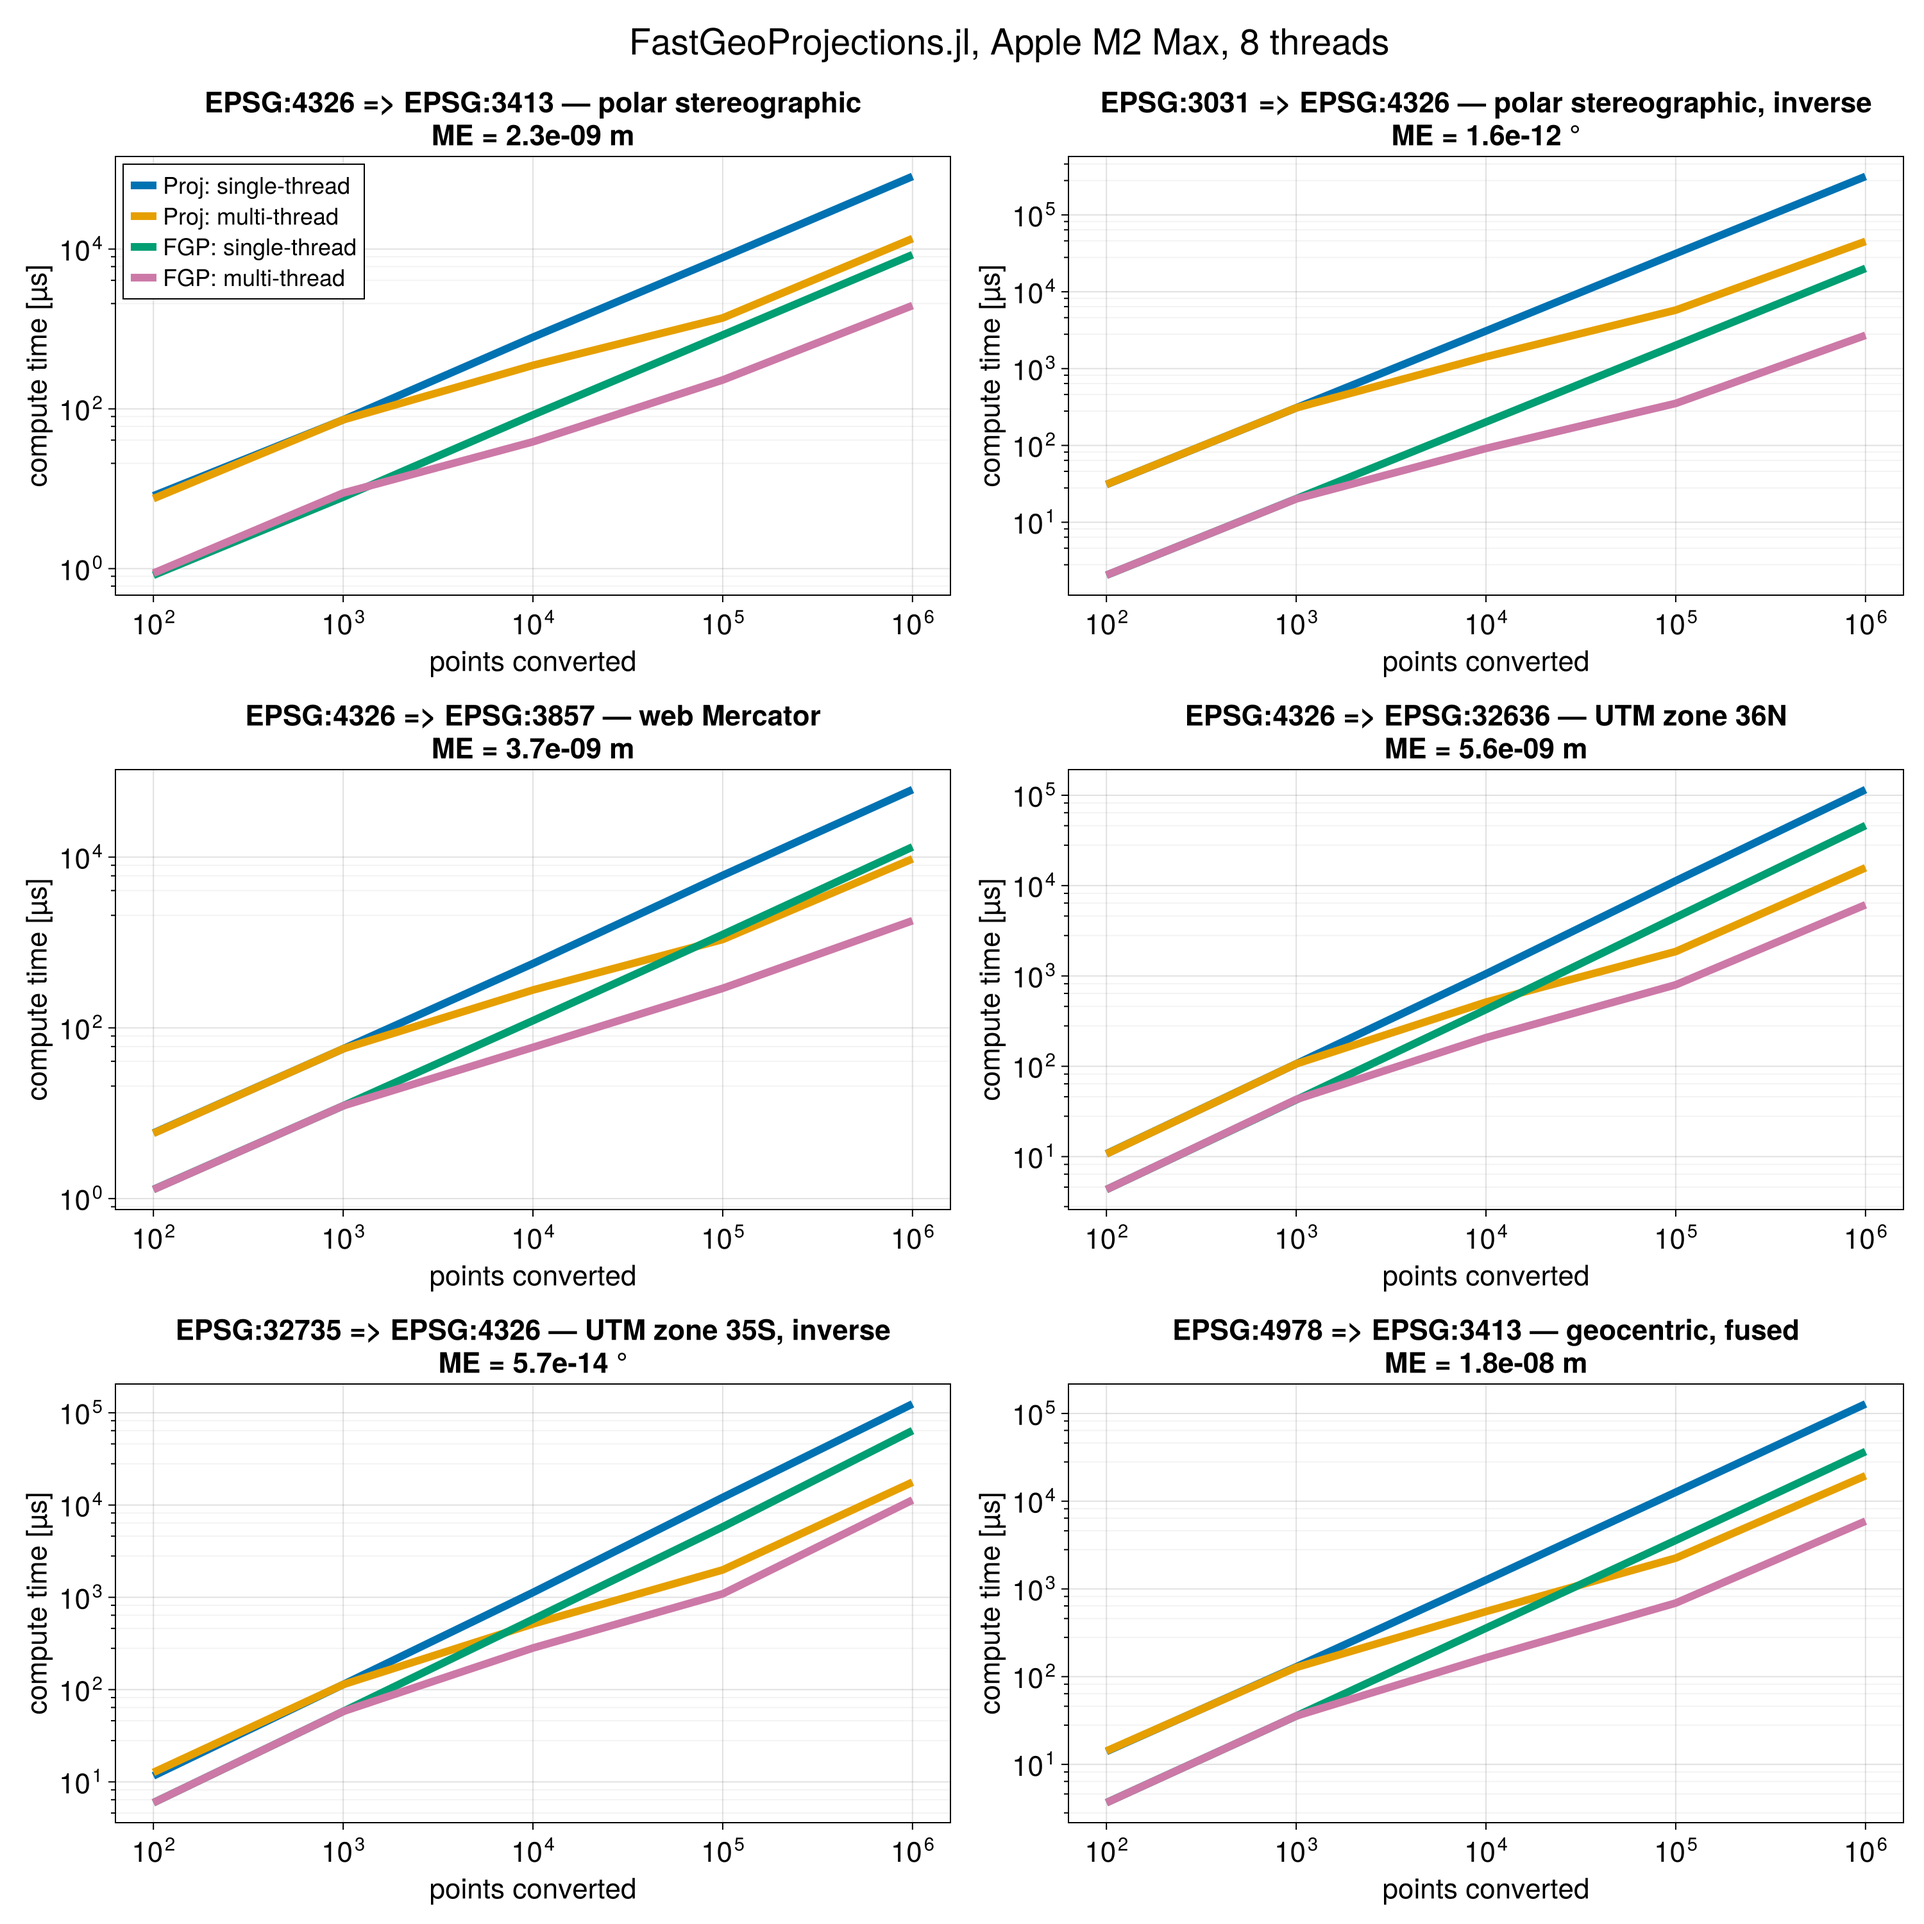
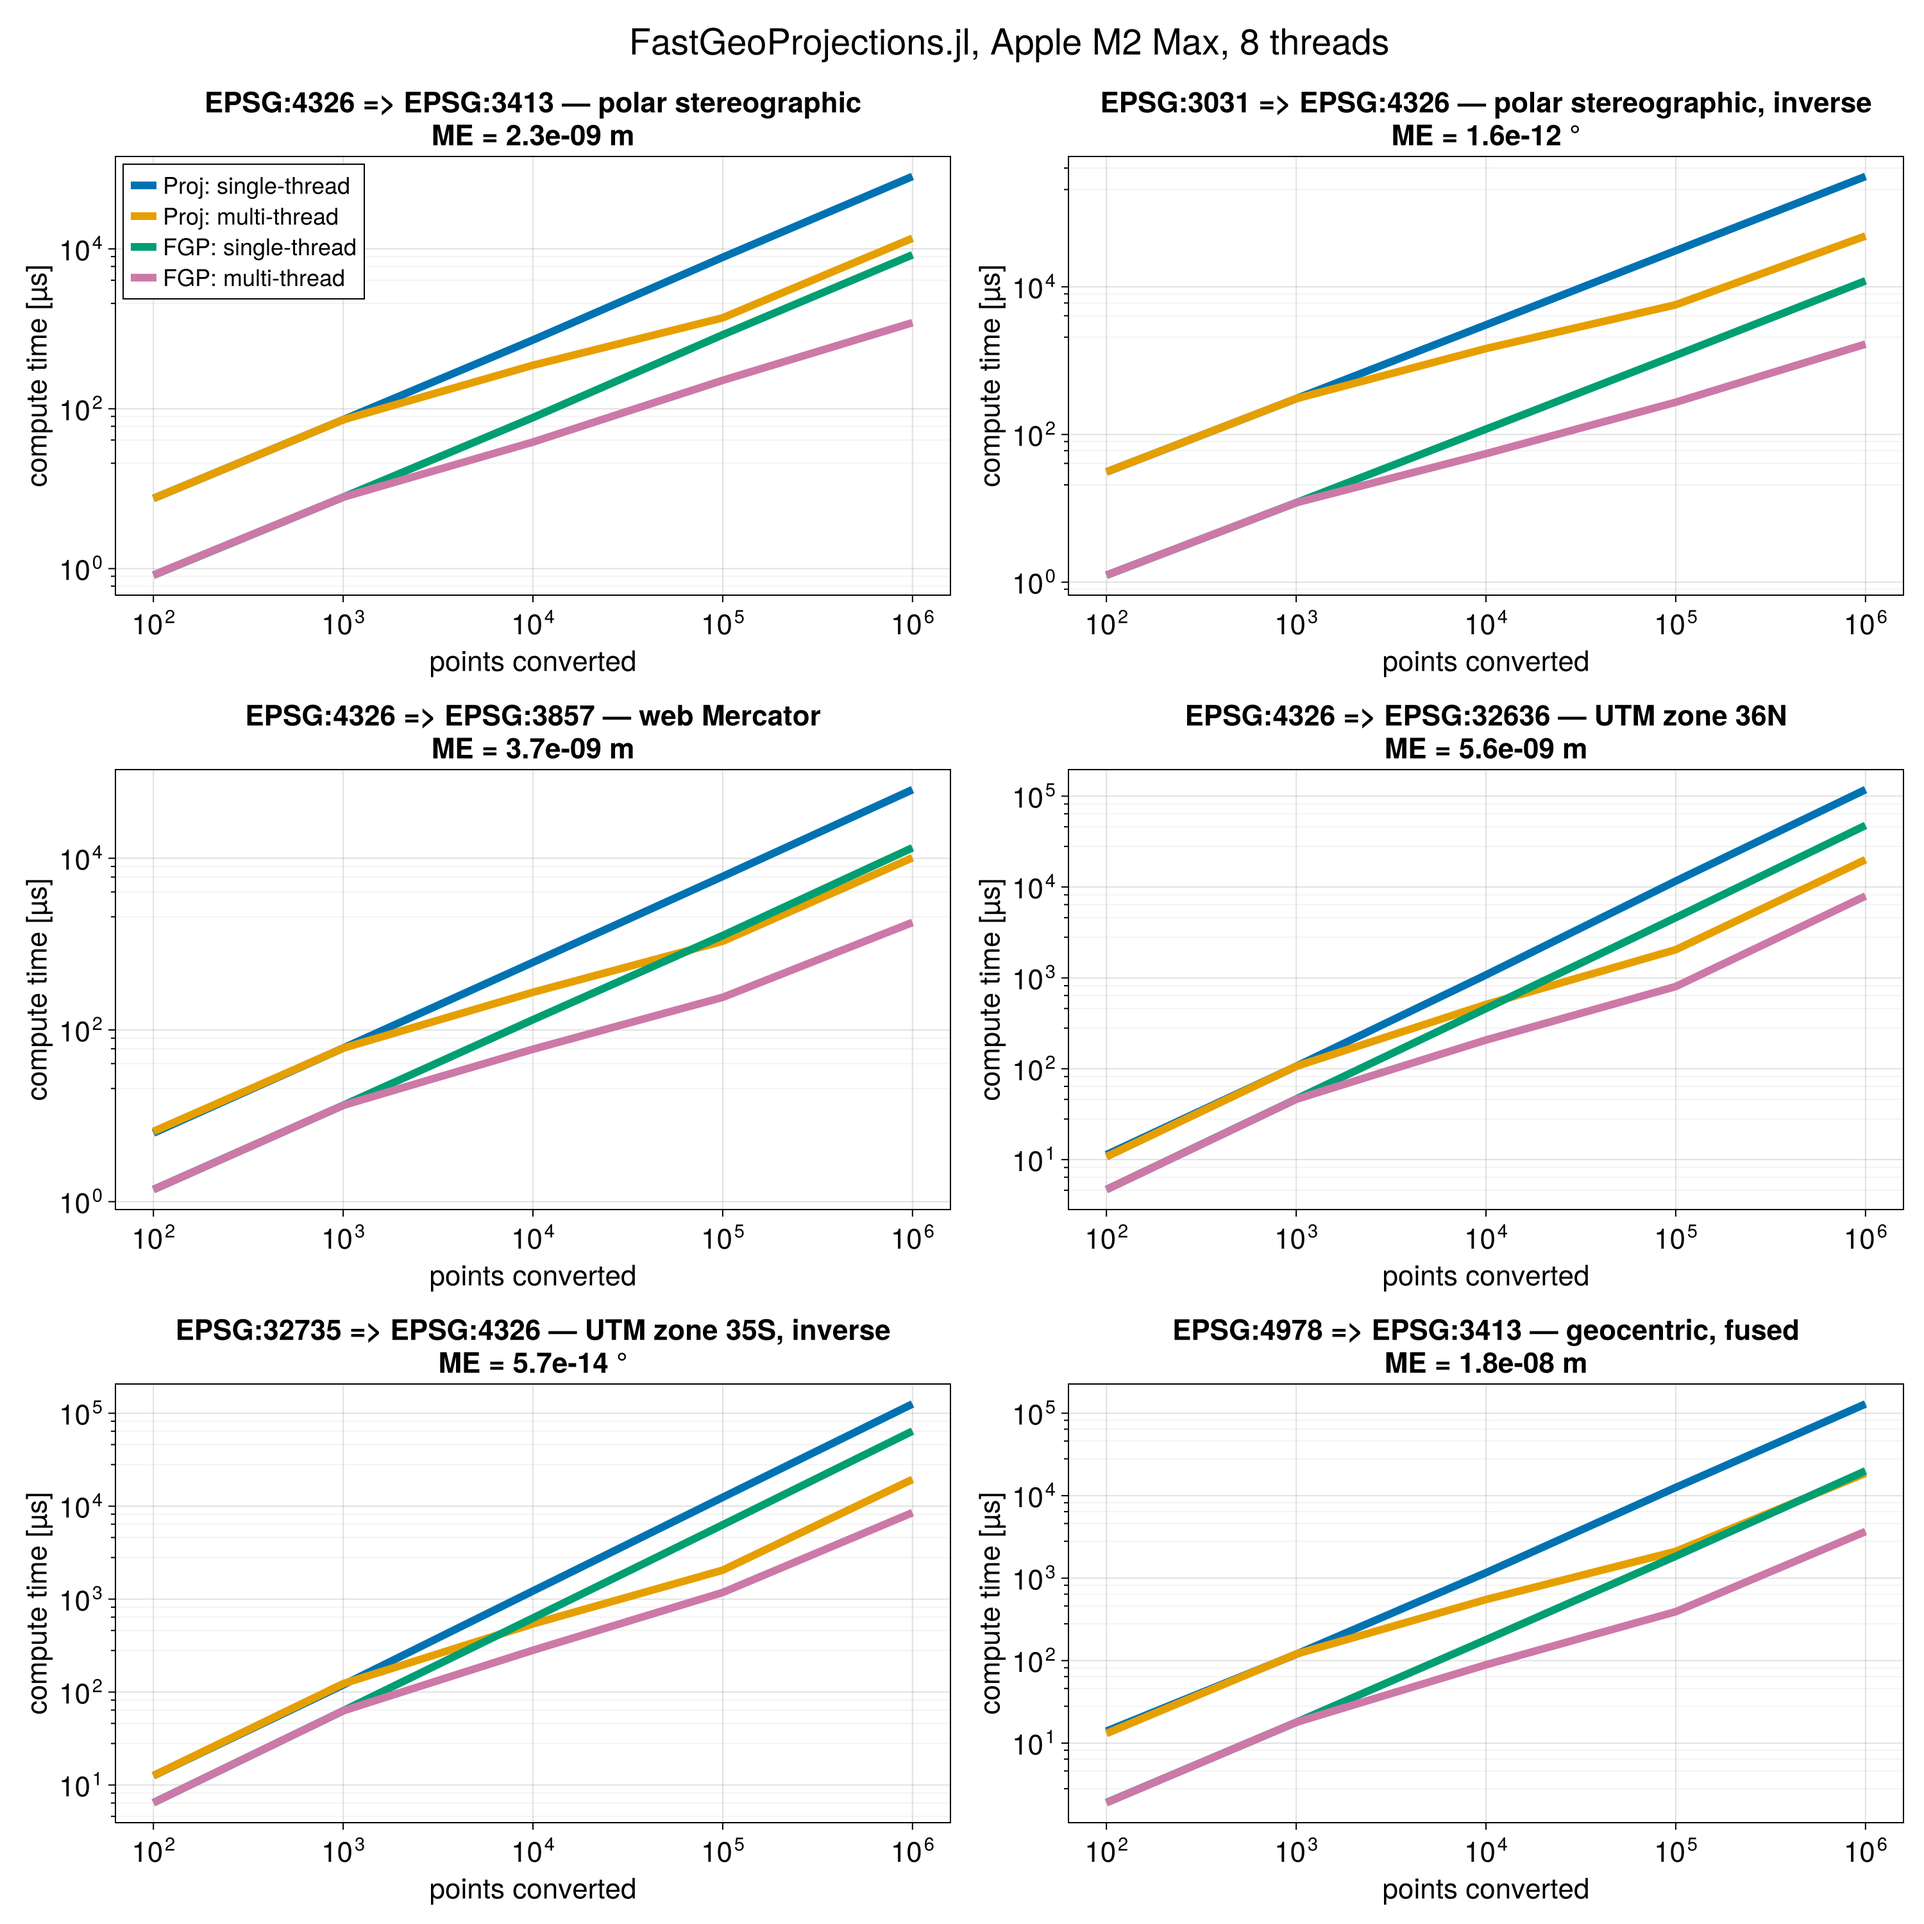
Halve the polar stereographic and geocentric costs (#35)
Sum the conformal->geodetic latitude series by Clenshaw recurrence rather
than as five separate sines: `Math.sin2_series` needs one `sincos` for the
whole series, and the polar stereographic inverse drops from 23 to 13
ns/point. The two forms agree to 1.1e-11 m, three orders inside the 2.4e-8 m
the truncated series itself costs.

Generalize the interleaved lane loop over its coordinate row count, so an
operator that transforms a height reaches it instead of falling to the scalar
path. The geocentric inverse drops from 43 to 22 ns/point, the fused
geocentric pipeline from 36 to 18, and the forward from 12 to 7.4.

`Direction`'s type parameter now follows its components rather than the
operator's precision, which is what lets one hold a `Vec` of lanes; built as
`Direction{T}` it threw on the path this opens.

Add `ncoords`, so how many coordinates an operator takes at once is a trait
it answers rather than something inferred from `!preservesz`. That inference
held only because 3 is the sole non-2 arity today.

diff --git a/CLAUDE.md b/CLAUDE.md
@@ -43,10 +43,13 @@ projection parameters, mapping one point to one point. Threading and vectorizati
 one per calling convention.
 
 - `transformations.jl` — `abstract type GeoTransformation`, the traits every operator answers
-  (`islanesafe`, `preservesz`, `adapt_eltype`), and `ComposedGeoTransformation`, a flat tuple that
-  inlines into one pass.
+  (`islanesafe`, `preservesz`, `ncoords`, `adapt_eltype`), and `ComposedGeoTransformation`, a flat
+  tuple that inlines into one pass.
 - `apply.jl` — `transform`/`transform!` over collections. Picks a SIMD lane loop or a scalar loop
-  per chunk, threads over chunks, and decides how a third coordinate is handled.
+  per chunk, threads over chunks, and decides how a third coordinate is handled. `_ncoords_val`
+  answers how many coordinates travel together — `ncoords(t)` capped by what the source and
+  destination have room for — as a `Val`, which selects both the lane loop's row count and the
+  scalar loop, so neither is decided per point.
 - `epsg.jl` — the EPSG registry. `pipeline()` composes `project_from_4326` with `project_to_4326`,
   since every projection is expressed relative to EPSG:4326 in (lon, lat) order.
 - `coord.jl` — `Transformation`, the public entry point, wrapping an operator plus the EPSG pair
@@ -73,17 +76,21 @@ axis orders, so an unclassified code fails rather than silently returning x and 
 - **`always_xy` differs by layer.** `false` on `Transformation` (authority order, so EPSG:4326 is
   lat, lon); the operators underneath are *always* xy. Axis order is handled by composing `SwapXY`
   onto the geographic end of a pipeline, not by a per-point branch.
-- **`islanesafe` and `preservesz` are independent traits.** Lane-safe means evaluable on `Vec`
-  lanes; `preservesz` means a third coordinate passes through untouched. A map projection is both;
-  the geocentric conversions are lane-safe but transform the height. Code that conflates them takes
-  the wrong path silently.
+- **`islanesafe`, `preservesz` and `ncoords` are independent traits.** Lane-safe means evaluable on
+  `Vec` lanes; `preservesz` means a third coordinate passes through untouched; `ncoords` is how many
+  coordinates the operator takes at once. A map projection is lane-safe, preserving, and 2; the
+  geocentric conversions are lane-safe, non-preserving, and 3. Code that conflates them takes the
+  wrong path silently.
 - **A height is transformed, not carried, where the transformation changes one.** For a datum shift
   or a geocentric conversion, the two-coordinate call is the `h = 0` point — which moves x and y by
   metres — so `LonLatToGeocentric` and `GeocentricToLonLat` reject it rather than assume sea level.
 - **Fusion.** Composing `GeocentricToLonLat` with a projection would form `atan(z, d)` and
   `atan(y, x)` and then immediately take their sines and cosines. `Direction` (`projections/direction.jl`)
   carries the unnormalized direction instead, a projection opts in with `project_direction`, and
-  `pipeline` substitutes `FusedFromGeocentric`. This is the one place a pipeline is not literally
+  `pipeline` substitutes `FusedFromGeocentric`. `Direction`'s type parameter follows its
+  components, so it holds a `Vec` of lanes on the SIMD path; constructing it as `Direction{T}`
+  from an operator's own precision instead pins it to a scalar and throws on that path. This is
+  the one place a pipeline is not literally
   `to ∘ from`.
 - **`tranmerc.jl` is written for the compiler, not the reader.** Branches are `ifelse` and boolean
   arithmetic so the body vectorizes; the Clenshaw recurrences are spelled out rather than looped.
@@ -100,21 +107,23 @@ Measured on aarch64 (M2 Max), 1 thread, 100k points, out of place, over a vector
 | pipeline | ns/point |
 |---|---|
 | 3857→4326 web Mercator, inverse | ~5 |
+| 4979→4978 geocentric forward | ~8 |
 | 4326→3413 polar stereographic | ~10 |
-| 4979→4978 geocentric forward | ~12 |
+| 3413→4326 polar stereographic, inverse | ~13 |
 | 4326→3857 web Mercator | ~16 |
-| 3413→4326 polar stereographic, inverse | ~23 |
-| 4978→3413 fused geocentric | ~36 |
-| 4978→4979 geocentric inverse | ~43 |
-| 4326→32619 UTM | ~49 |
-| 4978→3857 fused geocentric | ~70 |
+| 4978→3413 fused geocentric | ~20 |
+| 4978→4979 geocentric inverse | ~24 |
+| 4978→3857 fused geocentric | ~35 |
+| 4326→32619 UTM | ~50 |
 | 32619→4326 UTM, inverse | ~77 |
 
 Two coordinate vectors run 2–3 ns/point faster than a vector of points, all of it the strided
 AoS load; the shape a number is quoted in matters at this scale.
 
-The polar stereographic inverse costs twice its forward because the conformal→geodetic series is
-five `Math.sin` calls against the forward's one `Math.conformal_ratio`.
+The polar stereographic inverse costs a little more than its forward: the conformal→geodetic
+series is one `Math.sincos` and a Clenshaw recurrence ([`Math.sin2_series`](@ref)) against the
+forward's one `Math.conformal_ratio`. Evaluating the same series as five separate sines costs
+2.8× that and put the inverse at ~23 ns/point.
 
 `benchmark/benchmark.jl` measures whole pipelines against Proj across point counts and writes
 `benchmark/benchmark.png`; `benchmark/optimize_bench.jl` measures individual operators per call
@@ -149,11 +158,9 @@ under about 8%.
 
 ### Known gaps
 
-- **A height-transforming operator never reaches the SIMD lane loop.** `_transform_pts!` sends it
-  to the scalar path, because the interleaved loop writes rows 1 and 2 and preserves the rest. The
-  cost is small — the geocentric forward on the scalar path is ~12 ns/point, in the range the 2-D
-  projections reach on the lane path — but a 3-coordinate lane loop would recover roughly 2× on
-  that operator.
+- **The struct-of-arrays path takes x and y only.** A height-transforming operator handed three
+  vectors has nowhere to put the third, so `transform(t, X, Y)` has no geocentric form and such a
+  pipeline has to go through a vector of 3-component points.
 - **`_lane_range_aos!` is not worth tuning.** Running `Identity` through it measures 0.68–0.81
   ns/point, so the loop is ~4% of a projection's runtime and the strided AoS load costs 0.44
   ns/point over the contiguous SoA one. `UNROLL` (2/4/8/16) and `CHUNK` are all inside the noise

diff --git a/README.md b/README.md
@@ -206,12 +206,12 @@ Apple M2 Max, 8 threads, one million points, out of place, `always_xy=true`. Rep
 
 | pipeline | Proj, 1 thread | Proj, 8 | FGP, 1 thread | FGP, 8 | ME |
 |---|---|---|---|---|---|
-| 4326→3413 polar stereographic | 81 | 14 | 8.5 | 2.0 | 2.3e-9 m |
-| 3031→4326 polar stereographic, inverse | 317 | 45 | 20 | 2.7 | 1.6e-12 ° |
-| 4326→3857 web Mercator | 62 | 9.5 | 13 | 1.8 | 3.7e-9 m |
-| 4326→32636 UTM zone 36N | 115 | 16 | 46 | 6.1 | 5.6e-9 m |
-| 32735→4326 UTM zone 35S, inverse | 125 | 18 | 64 | 11 | 5.7e-14 ° |
-| 4978→3413 geocentric, fused | 128 | 20 | 37 | 5.9 | 1.8e-8 m |
+| 4326→3413 polar stereographic | 81 | 14 | 8.4 | 1.2 | 2.3e-9 m |
+| 3031→4326 polar stereographic, inverse | 313 | 49 | 12 | 1.7 | 1.6e-12 ° |
+| 4326→3857 web Mercator | 63 | 10 | 13 | 1.8 | 3.7e-9 m |
+| 4326→32636 UTM zone 36N | 118 | 20 | 48 | 8.0 | 5.6e-9 m |
+| 32735→4326 UTM zone 35S, inverse | 126 | 19 | 64 | 8.5 | 5.7e-14 ° |
+| 4978→3413 geocentric, fused | 130 | 19 | 20 | 3.7 | 1.8e-8 m |
 
 Times are ns/point. The gap narrows above one thread, since Proj threads as well; it is the
 single-thread column that shows what the native implementation costs.
